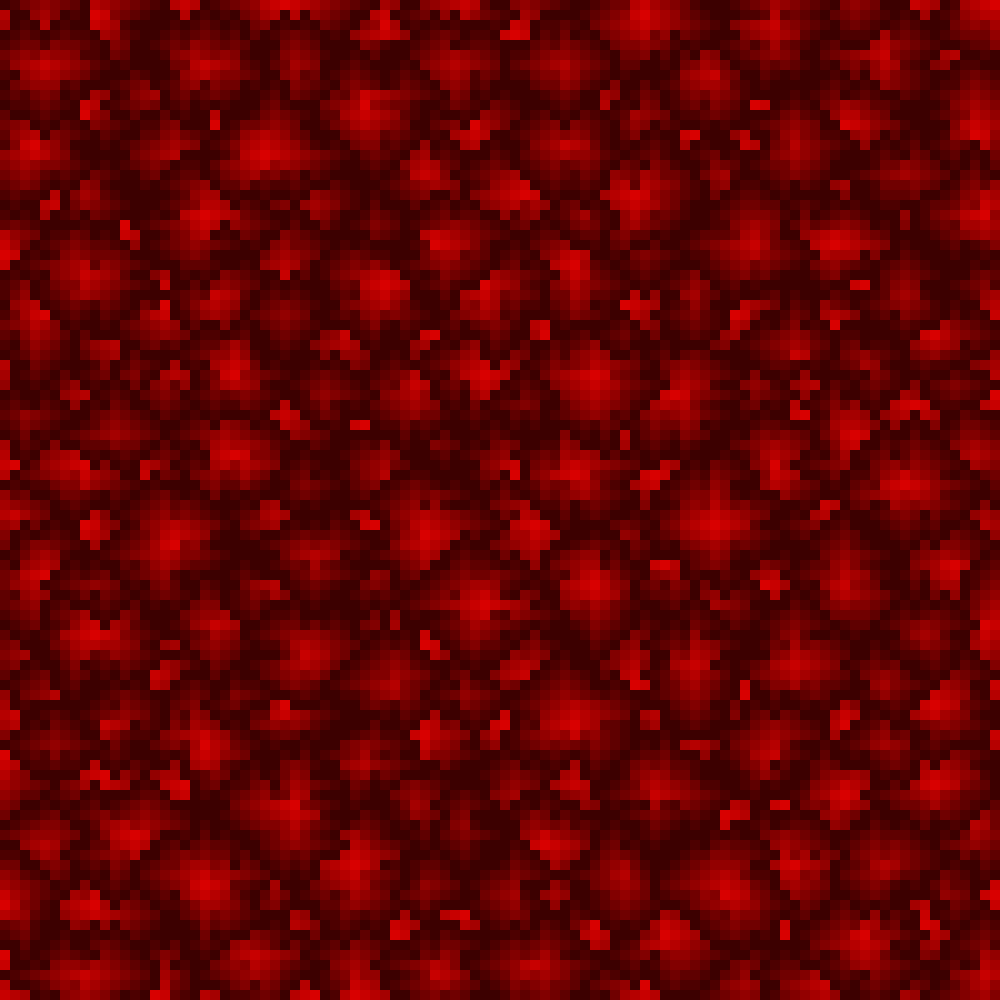
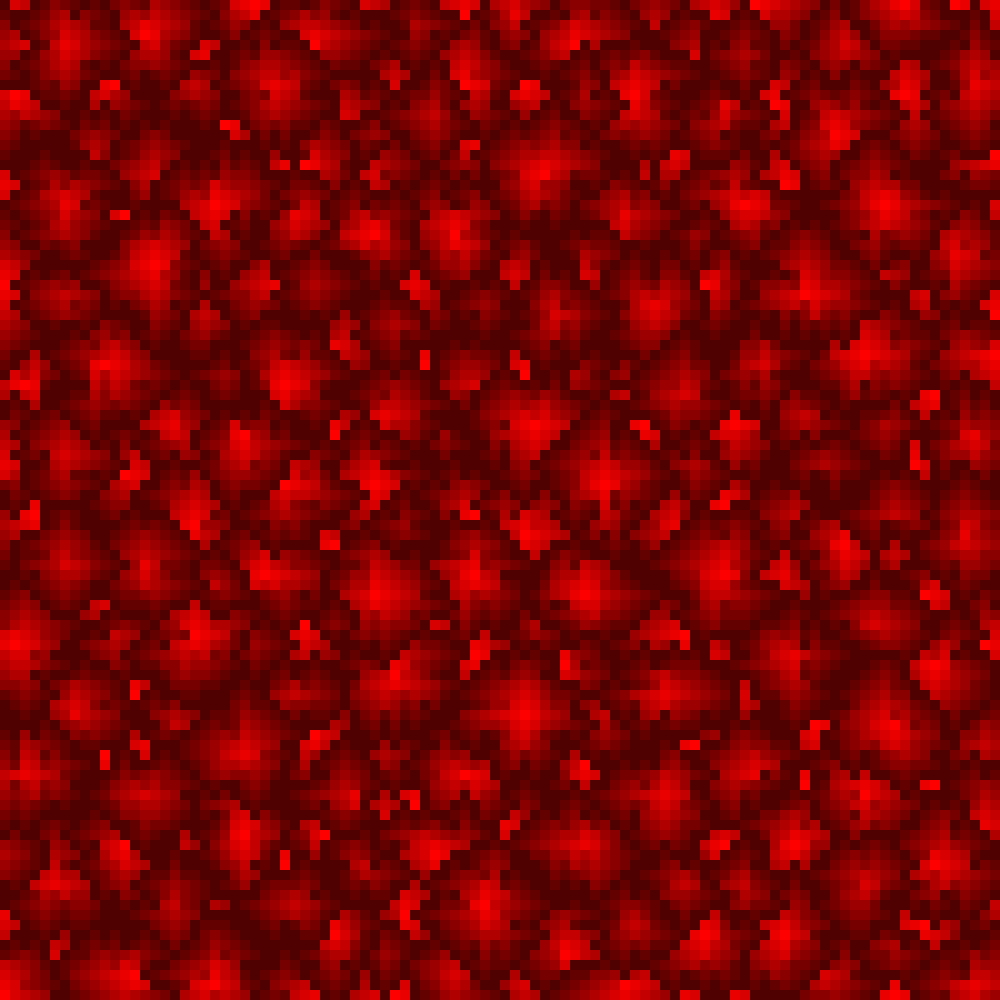
Generalized image and gif into libraries

diff --git a/Day_9/main.go b/Day_9/main.go
@@ -3,10 +3,7 @@ package main
 import (
 	"fmt"
 	"image"
-	"image/color"
-	"image/png"
 
-	"os"
 	"sort"
 	"strconv"
 
@@ -23,10 +20,8 @@ func onestar(filename string) string {
 	rows := len(lines)
 	cols := len(lines[0])
 	grid := make(map[Key]int, rows*cols)
-
-	zoom := 10
-	grid_image := image.NewRGBA(image.Rect(0, 0, cols*zoom, rows*zoom))
-	outputFile, _ := os.Create("onestar.png")
+	grid_image := aocutils.NewImage(rows, cols, 10)
+	grid_image.UsePaletteReds()
 
 	for row, line := range lines {
 		for col, char := range line {
@@ -38,13 +33,7 @@ func onestar(filename string) string {
 	for i, line := range lines {
 		for j := range line {
 			grid_value := grid[Key{row: i, col: j}]
-			for k := i * zoom; k < (i+1)*zoom; k++ {
-				for l := j * zoom; l < (j+1)*zoom; l++ {
-					location := (k*cols*zoom + l) * 4
-					grid_image.Pix[location] = 60 + uint8(175*(float64(10-grid[Key{row: i, col: j}])/10))
-					grid_image.Pix[location+3] = 255
-				}
-			}
+			grid_image.SetZoomedPixel(i, j, grid_value)
 			if value, exists := grid[Key{row: i + 1, col: j}]; exists && value <= grid_value {
 				continue
 			} else if value, exists := grid[Key{row: i - 1, col: j}]; exists && value <= grid_value {
@@ -54,11 +43,10 @@ func onestar(filename string) string {
 			} else if value, exists := grid[Key{row: i, col: j - 1}]; exists && value <= grid_value {
 				continue
 			}
-			result += grid[Key{row: i, col: j}]
+			result += grid_value
 		}
 	}
-	png.Encode(outputFile, grid_image)
-	outputFile.Close()
+	grid_image.WritePNGToFile("onestar")
 	return strconv.Itoa(result)
 }
 
@@ -69,25 +57,19 @@ func twostar(filename string) string {
 	grid := make(map[Key]int, rows*cols)
 	image_grid := make(map[Key]int, rows*cols)
 
-	zoom := 10
 	visited := make(map[Key]bool, len(lines)*len(lines[0]))
 
 	var images []*image.Paletted
 
-	palette := make([]color.Color, 0, 11)
-	palette = append(palette, color.Black)
-	for i := 0; i <= 9; i++ {
-		palette = append(palette, color.RGBA{R: 60 + uint8(195*(float64(10-i)/10)), G: 0, B: 0, A: 255})
-	}
-	palette = append(palette, color.Transparent)
-	grid_image := image.NewPaletted(image.Rect(0, 0, cols*zoom, rows*zoom), palette)
+	grid_image := aocutils.NewImage(rows, cols, 10)
+	grid_image.UsePaletteReds()
 
 	var stack aocutils.Stack[Key]
 	for i, line := range lines {
 		for j, char := range line {
 			value, _ := strconv.Atoi(string(char))
 			key := Key{row: i, col: j}
-			aocutils.SetZoomedPixel(j, i, zoom, grid_image, 0)
+			grid_image.SetZoomedPixel(j, i, 0)
 			grid[key] = value
 			image_grid[key] = 0
 			visited[key] = false
@@ -114,11 +96,10 @@ func twostar(filename string) string {
 					continue
 				}
 				pixel_count += 1
-				aocutils.SetZoomedPixel(location.col, location.row, zoom, grid_image, grid[location])
+				grid_image.SetZoomedPixel(location.col, location.row, grid[location])
 				if pixel_count%frameskip == 0 {
-					copied_image := image.NewPaletted(grid_image.Rect, grid_image.Palette)
-					copy(copied_image.Pix, grid_image.Pix)
-					images = append(images, copied_image)
+					copy := grid_image.Clone()
+					images = append(images, copy.GetRawImage())
 				}
 				count += 1
 				new_location := Key{row: location.row + 1, col: location.col}
@@ -141,7 +122,7 @@ func twostar(filename string) string {
 			basinSize = append(basinSize, count)
 		}
 	}
-	aocutils.CreateGIF(images, palette, "twostar")
+	aocutils.CreateGIF(images, "twostar")
 	sort.Ints(basinSize)
 	top_3 := basinSize[len(basinSize)-3:]
 	return strconv.Itoa(top_3[0] * top_3[1] * top_3[2])
